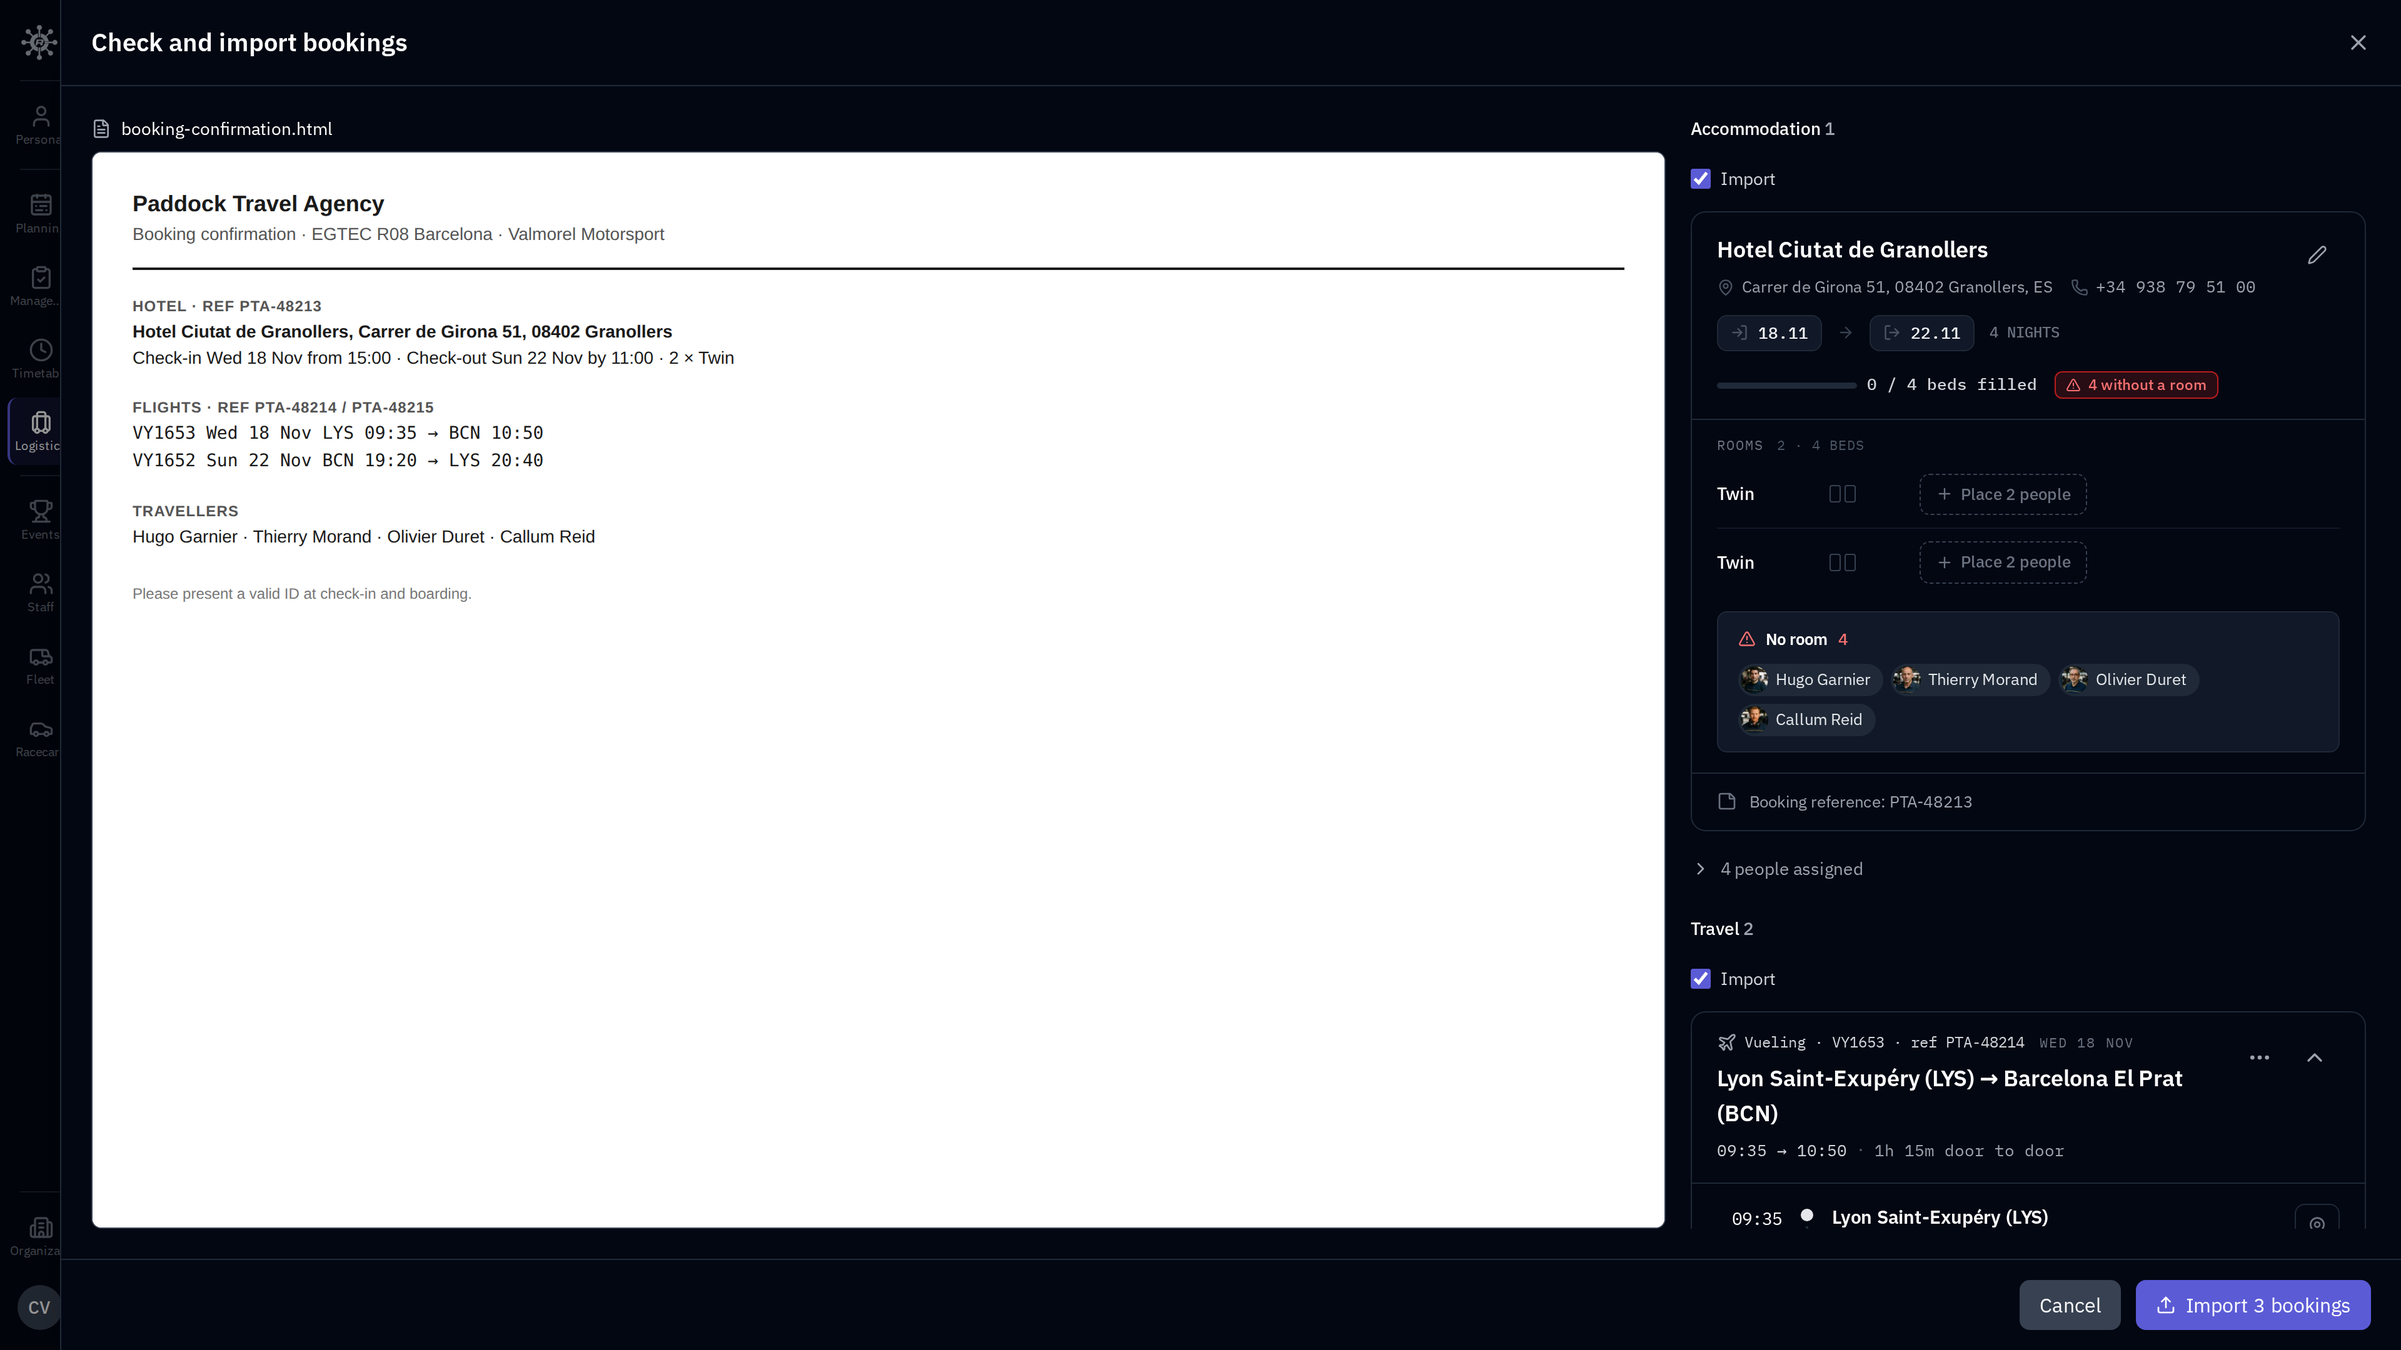
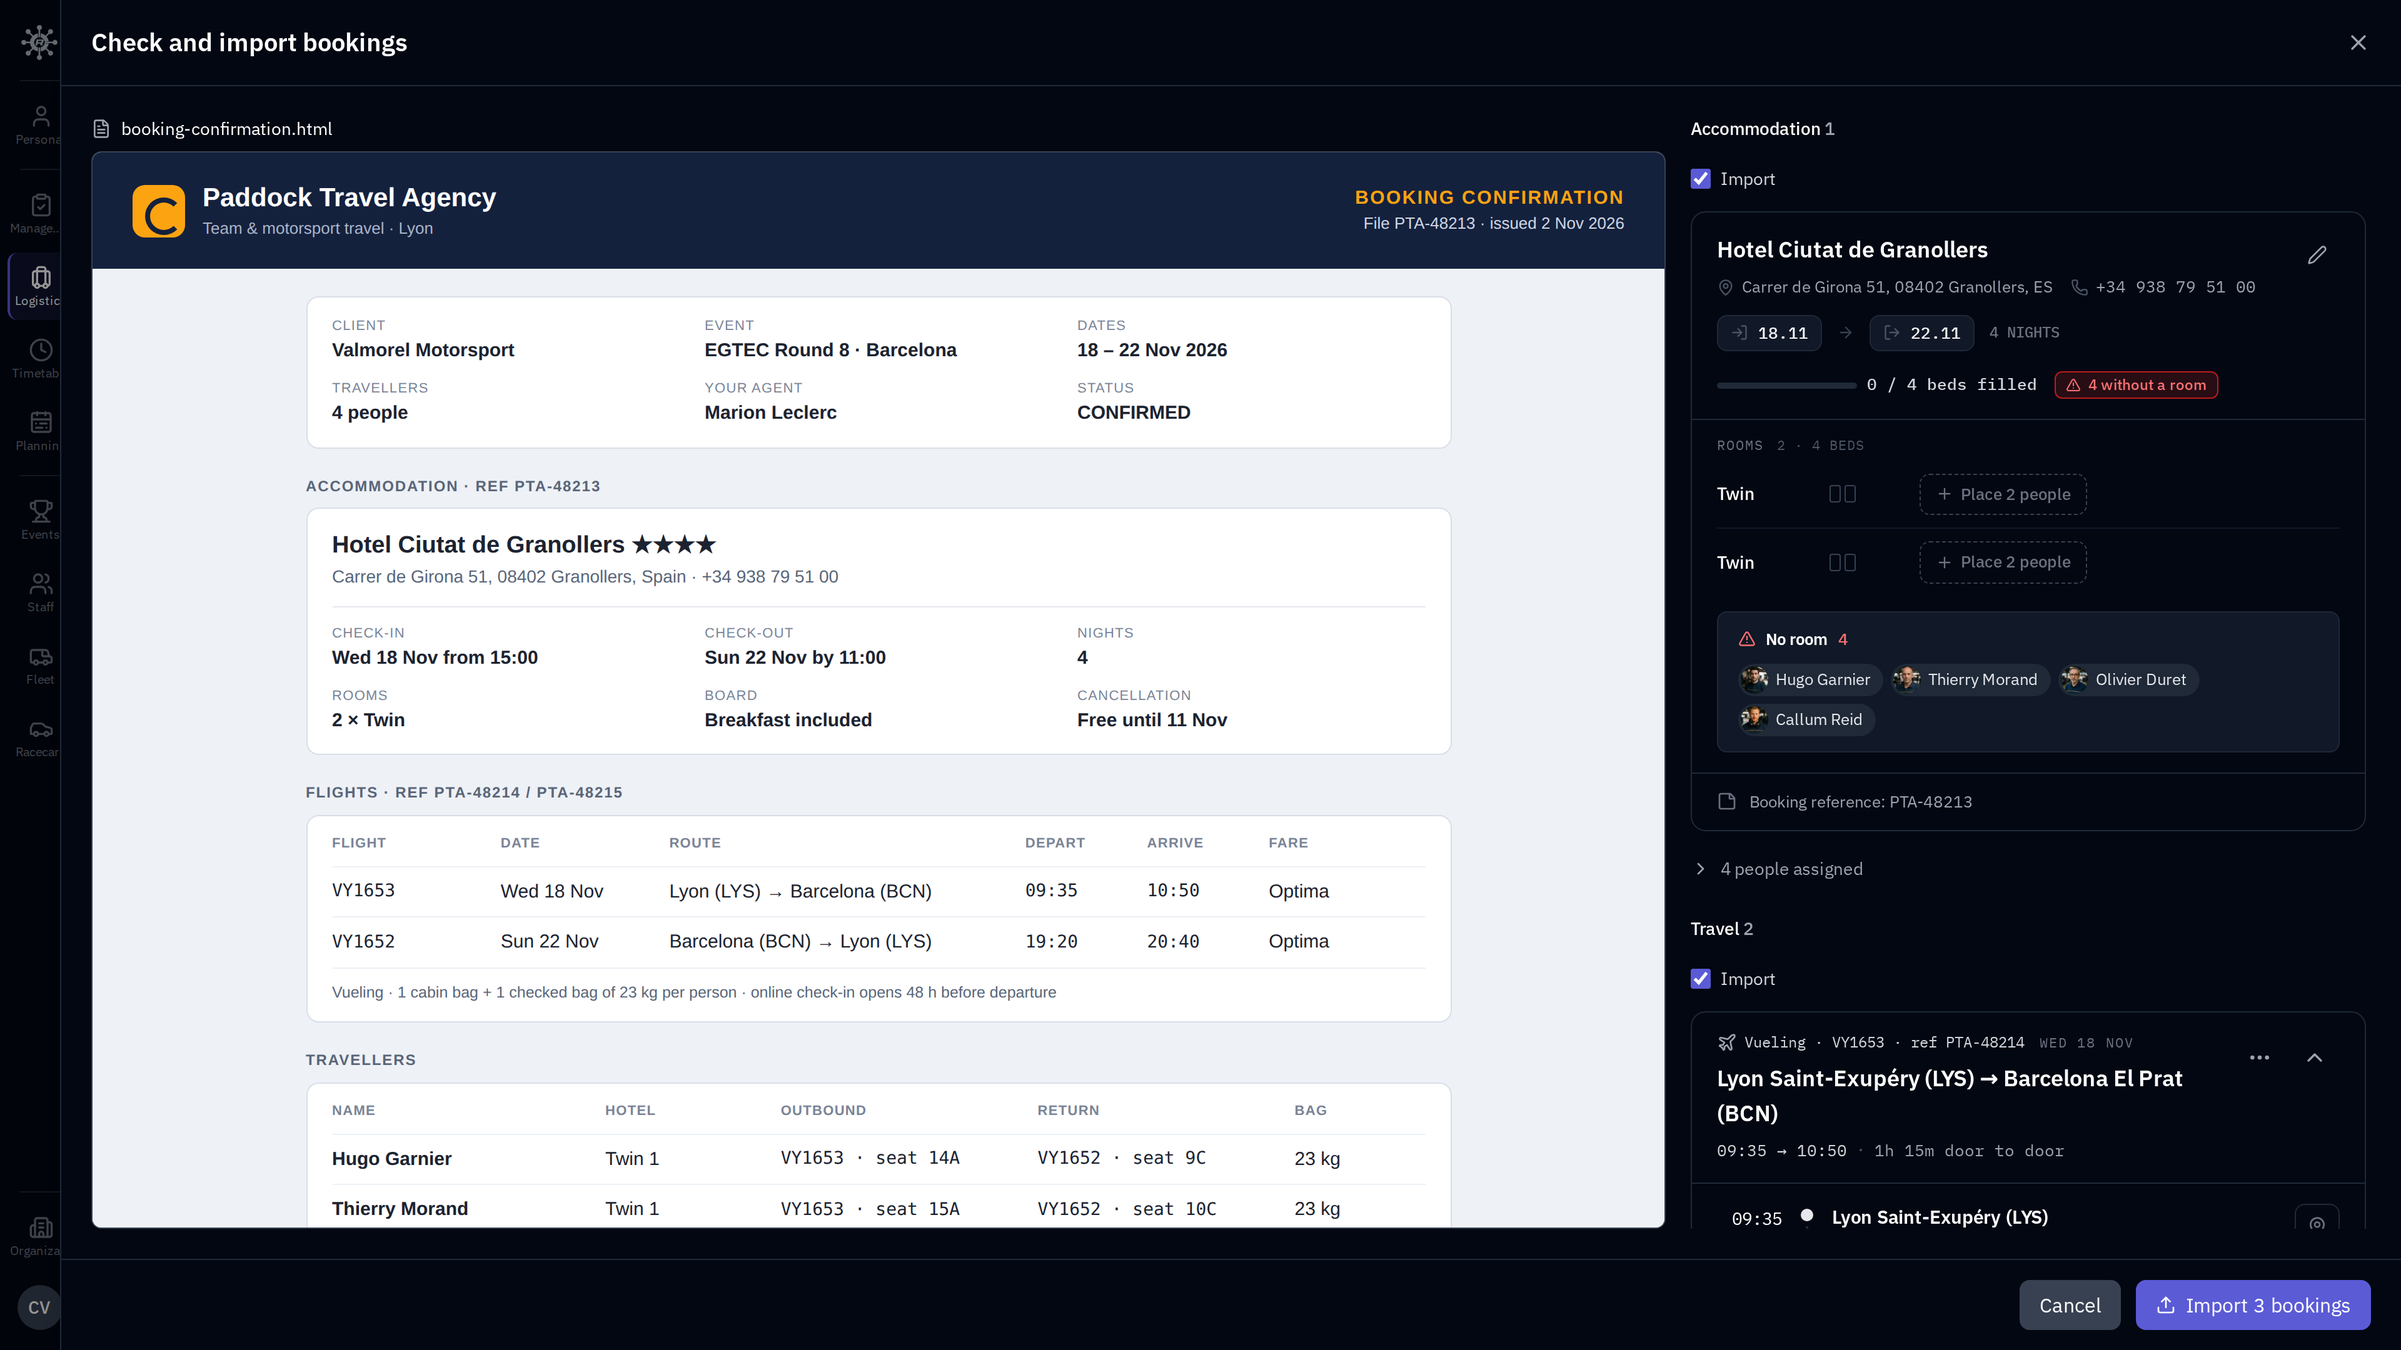
screenshots: credible import documents (travel agency confirmation, official timetable), recaptured

diff --git a/scripts/screenshots/files/booking-confirmation.html b/scripts/screenshots/files/booking-confirmation.html
@@ -3,11 +3,13 @@
   A travel agency's confirmation, made up for the Logistics import screenshot. Like the mails of airlines,
   hotels and booking sites, it carries its bookings as schema.org markup, which RaceNode reads on the device.
   The words a person sees are drawn by CSS on purpose: the document then has no text for the reading
-  service, so the screenshot calls no server (the demo stays untouched). Don't move them into the HTML.
+  service, so the screenshot calls no server (the demo stays untouched). Don't move them into the HTML:
+  every sentence below is a CSS "content" string (xNN::before), the body only holds empty boxes.
 -->
 <html lang="en">
 <head>
 <meta charset="utf-8">
+<meta name="viewport" content="width=device-width, initial-scale=1">
 <script type="application/ld+json">
 [
   {
@@ -74,30 +76,124 @@
 ]
 </script>
 <style>
-  body { margin: 0; padding: 28px 32px; font: 14px/1.5 Helvetica, Arial, sans-serif; color: #1a1a1a; background: #fff; }
-  i { display: block; font-style: normal; }
-  .brand::before { content: "Paddock Travel Agency"; font-weight: 700; font-size: 18px; }
-  .sub::before { content: "Booking confirmation · EGTEC R08 Barcelona · Valmorel Motorsport"; color: #555; }
-  hr { border: 0; border-top: 2px solid #1a1a1a; margin: 16px 0; }
-  .h::before { font-weight: 700; text-transform: uppercase; letter-spacing: .05em; font-size: 12px; color: #555; }
-  .h1::before { content: "Hotel · ref PTA-48213"; }
-  .h2::before { content: "Flights · ref PTA-48214 / PTA-48215"; }
-  .h3::before { content: "Travellers"; }
-  .h { margin-top: 18px; }
-  .a::before { content: "Hotel Ciutat de Granollers, Carrer de Girona 51, 08402 Granollers"; font-weight: 600; }
-  .b::before { content: "Check-in Wed 18 Nov from 15:00 · Check-out Sun 22 Nov by 11:00 · 2 × Twin"; }
-  .c::before { content: "VY1653  Wed 18 Nov  LYS 09:35 → BCN 10:50"; font-family: Menlo, monospace; }
-  .d::before { content: "VY1652  Sun 22 Nov  BCN 19:20 → LYS 20:40"; font-family: Menlo, monospace; }
-  .e::before { content: "Hugo Garnier · Thierry Morand · Olivier Duret · Callum Reid"; }
-  .f::before { content: "Please present a valid ID at check-in and boarding."; color: #777; font-size: 12px; }
-  .f { margin-top: 24px; }
+  *{box-sizing:border-box}
+  body{margin:0;font:15px/1.45 Helvetica,Arial,sans-serif;color:#1c2330;background:#eef1f6}
+  i{display:block;font-style:normal}
+  .top{display:flex;align-items:center;gap:14px;padding:22px 32px;background:#14213d;color:#fff;flex-wrap:wrap}
+  .logo{width:42px;height:42px;border-radius:10px;background:#fca311;position:relative}
+  .logo::after{content:"";position:absolute;left:10px;top:10px;width:22px;height:22px;border:4px solid #14213d;border-radius:50%;border-right-color:transparent}
+  .co{flex:1;min-width:200px}.name{font-weight:700;font-size:21px}.tag{font-size:13px;color:#aab4c8}
+  .doc{text-align:right}.dt{font-weight:700;letter-spacing:.08em;font-size:15px;color:#fca311}.dd{font-size:13px;color:#cfd6e4}
+  .wrap{padding:22px 32px 30px;max-width:980px;margin:0 auto}
+  .card{background:#fff;border:1px solid #d9dee8;border-radius:10px;padding:16px 20px}
+  .sec{margin:22px 0 8px;font-weight:700;font-size:12px;letter-spacing:.08em;text-transform:uppercase;color:#5a6679}
+  .info{display:grid;grid-template-columns:repeat(3,1fr);gap:12px 20px}
+  .grid{display:grid;grid-template-columns:repeat(3,1fr);gap:12px 20px;margin-top:14px;padding-top:14px;border-top:1px solid #e6e9f0}
+  .k{font-size:11px;letter-spacing:.06em;text-transform:uppercase;color:#7a8497}.v{font-weight:600}
+  .hn{font-size:19px;font-weight:700}.ha{color:#5a6679;font-size:14px}
+  .tbl{padding:6px 20px}
+  .r{display:grid;gap:10px;padding:9px 0;border-bottom:1px solid #edf0f5;align-items:center}
+  .f .r{grid-template-columns:1fr 1fr 2.2fr .7fr .7fr 1fr}
+  .p .r{grid-template-columns:1.6fr 1fr 1.5fr 1.5fr .8fr}
+  .th{font-size:11px;letter-spacing:.06em;text-transform:uppercase;color:#7a8497;font-weight:700}
+  .m{font-family:Menlo,Consolas,monospace;font-size:14px}.b{font-weight:600}
+  .p .r:last-child{border-bottom:0}
+  .note{padding:10px 0 8px;font-size:12.5px;color:#5a6679}
+  .pay{display:flex;justify-content:space-between;gap:20px;flex-wrap:wrap}.pay>div>i{padding:2px 0}
+  .tot{text-align:right}.tot .b{font-size:20px;font-weight:700}.s{font-size:12.5px;color:#5a6679}
+  .fine{margin-top:20px;font-size:12px;color:#6b7589}
+  @media (max-width:560px){
+    body{font-size:14px}.top{padding:16px}.wrap{padding:14px 12px 20px}
+    .info,.grid{grid-template-columns:1fr 1fr}.doc{text-align:left}
+    .f .r,.p .r{grid-template-columns:1fr 1fr;gap:2px 10px}.p .r>:first-child,.f .r>:nth-child(3){grid-column:1/-1}.m{font-size:12.5px}.th{display:none}.tot{text-align:left}
+  }
+.x1::before{content:"Paddock Travel Agency"}
+.x2::before{content:"Team & motorsport travel · Lyon"}
+.x3::before{content:"BOOKING CONFIRMATION"}
+.x4::before{content:"File PTA-48213 · issued 2 Nov 2026"}
+.x5::before{content:"Client"}
+.x6::before{content:"Valmorel Motorsport"}
+.x7::before{content:"Event"}
+.x8::before{content:"EGTEC Round 8 · Barcelona"}
+.x9::before{content:"Dates"}
+.x10::before{content:"18 – 22 Nov 2026"}
+.x11::before{content:"Travellers"}
+.x12::before{content:"4 people"}
+.x13::before{content:"Your agent"}
+.x14::before{content:"Marion Leclerc"}
+.x15::before{content:"Status"}
+.x16::before{content:"CONFIRMED"}
+.x17::before{content:"Accommodation · ref PTA-48213"}
+.x18::before{content:"Hotel Ciutat de Granollers ★★★★"}
+.x19::before{content:"Carrer de Girona 51, 08402 Granollers, Spain · +34 938 79 51 00"}
+.x20::before{content:"Check-in"}
+.x21::before{content:"Wed 18 Nov from 15:00"}
+.x22::before{content:"Check-out"}
+.x23::before{content:"Sun 22 Nov by 11:00"}
+.x24::before{content:"Nights"}
+.x25::before{content:"4"}
+.x26::before{content:"Rooms"}
+.x27::before{content:"2 × Twin"}
+.x28::before{content:"Board"}
+.x29::before{content:"Breakfast included"}
+.x30::before{content:"Cancellation"}
+.x31::before{content:"Free until 11 Nov"}
+.x32::before{content:"Flights · ref PTA-48214 / PTA-48215"}
+.x33::before{content:"Flight"}
+.x34::before{content:"Date"}
+.x35::before{content:"Route"}
+.x36::before{content:"Depart"}
+.x37::before{content:"Arrive"}
+.x38::before{content:"Fare"}
+.x39::before{content:"VY1653"}
+.x40::before{content:"Wed 18 Nov"}
+.x41::before{content:"Lyon (LYS) → Barcelona (BCN)"}
+.x42::before{content:"09:35"}
+.x43::before{content:"10:50"}
+.x44::before{content:"Optima"}
+.x45::before{content:"VY1652"}
+.x46::before{content:"Sun 22 Nov"}
+.x47::before{content:"Barcelona (BCN) → Lyon (LYS)"}
+.x48::before{content:"19:20"}
+.x49::before{content:"20:40"}
+.x50::before{content:"Optima"}
+.x51::before{content:"Vueling · 1 cabin bag + 1 checked bag of 23 kg per person · online check-in opens 48 h before departure"}
+.x52::before{content:"Travellers"}
+.x53::before{content:"Name"}
+.x54::before{content:"Hotel"}
+.x55::before{content:"Outbound"}
+.x56::before{content:"Return"}
+.x57::before{content:"Bag"}
+.x58::before{content:"Hugo Garnier"}
+.x59::before{content:"Twin 1"}
+.x60::before{content:"VY1653 · seat 14A"}
+.x61::before{content:"VY1652 · seat 9C"}
+.x62::before{content:"23 kg"}
+.x63::before{content:"Thierry Morand"}
+.x64::before{content:"Twin 1"}
+.x65::before{content:"VY1653 · seat 15A"}
+.x66::before{content:"VY1652 · seat 10C"}
+.x67::before{content:"23 kg"}
+.x68::before{content:"Olivier Duret"}
+.x69::before{content:"Twin 2"}
+.x70::before{content:"VY1653 · seat 16A"}
+.x71::before{content:"VY1652 · seat 11C"}
+.x72::before{content:"23 kg"}
+.x73::before{content:"Callum Reid"}
+.x74::before{content:"Twin 2"}
+.x75::before{content:"VY1653 · seat 17A"}
+.x76::before{content:"VY1652 · seat 12C"}
+.x77::before{content:"23 kg"}
+.x78::before{content:"Payment"}
+.x79::before{content:"Hotel · 2 rooms × 4 nights — €1,184.00"}
+.x80::before{content:"Flights · 4 travellers × 2 sectors — €1,560.00"}
+.x81::before{content:"Booking fee — €112.00"}
+.x82::before{content:"Total paid €2,856.00"}
+.x83::before{content:"Invoice PTA-48213-F · paid by transfer on 2 Nov 2026"}
+.x84::before{content:"Please present a valid ID at check-in and boarding. Changes and cancellations: contact your agent at least 72 h before departure. Fares and room rates are non-transferable. Paddock Travel Agency · registered travel agency · 24/7 helpline +33 4 00 00 00 00."}
 </style>
 </head>
 <body>
-<i class="brand"></i><i class="sub"></i><hr>
-<i class="h h1"></i><i class="a"></i><i class="b"></i>
-<i class="h h2"></i><i class="c"></i><i class="d"></i>
-<i class="h h3"></i><i class="e"></i>
-<i class="f"></i>
+<div class="top"><div class="logo"></div><div class="co"><i class="name x1"></i><i class="tag x2"></i></div><div class="doc"><i class="dt x3"></i><i class="dd x4"></i></div></div><div class="wrap"><div class="card info"><div class="kv"><i class="k x5"></i><i class="v x6"></i></div><div class="kv"><i class="k x7"></i><i class="v x8"></i></div><div class="kv"><i class="k x9"></i><i class="v x10"></i></div><div class="kv"><i class="k x11"></i><i class="v x12"></i></div><div class="kv"><i class="k x13"></i><i class="v x14"></i></div><div class="kv"><i class="k x15"></i><i class="v x16"></i></div></div><div class="sec"><i class=" x17"></i></div><div class="card"><i class="hn x18"></i><i class="ha x19"></i><div class="grid"><div class="kv"><i class="k x20"></i><i class="v x21"></i></div><div class="kv"><i class="k x22"></i><i class="v x23"></i></div><div class="kv"><i class="k x24"></i><i class="v x25"></i></div><div class="kv"><i class="k x26"></i><i class="v x27"></i></div><div class="kv"><i class="k x28"></i><i class="v x29"></i></div><div class="kv"><i class="k x30"></i><i class="v x31"></i></div></div></div><div class="sec"><i class=" x32"></i></div><div class="card tbl f"><div class="r th"><i class=" x33"></i><i class=" x34"></i><i class=" x35"></i><i class=" x36"></i><i class=" x37"></i><i class=" x38"></i></div><div class="r"><i class="m x39"></i><i class=" x40"></i><i class=" x41"></i><i class="m x42"></i><i class="m x43"></i><i class=" x44"></i></div><div class="r"><i class="m x45"></i><i class=" x46"></i><i class=" x47"></i><i class="m x48"></i><i class="m x49"></i><i class=" x50"></i></div><div class="note"><i class=" x51"></i></div></div><div class="sec"><i class=" x52"></i></div><div class="card tbl p"><div class="r th"><i class=" x53"></i><i class=" x54"></i><i class=" x55"></i><i class=" x56"></i><i class=" x57"></i></div><div class="r"><i class="b x58"></i><i class=" x59"></i><i class="m x60"></i><i class="m x61"></i><i class=" x62"></i></div><div class="r"><i class="b x63"></i><i class=" x64"></i><i class="m x65"></i><i class="m x66"></i><i class=" x67"></i></div><div class="r"><i class="b x68"></i><i class=" x69"></i><i class="m x70"></i><i class="m x71"></i><i class=" x72"></i></div><div class="r"><i class="b x73"></i><i class=" x74"></i><i class="m x75"></i><i class="m x76"></i><i class=" x77"></i></div></div><div class="sec"><i class=" x78"></i></div><div class="card pay"><div><i class=" x79"></i><i class=" x80"></i><i class=" x81"></i></div><div class="tot"><i class="b x82"></i><i class="s x83"></i></div></div><div class="fine"><i class=" x84"></i></div></div>
 </body>
 </html>

diff --git a/scripts/screenshots/files/official-timetable.html b/scripts/screenshots/files/official-timetable.html
@@ -5,21 +5,39 @@
 <meta charset="utf-8">
 <title>EGTEC Round 8 - Barcelona - Official Timetable</title>
 <style>
-  @page { size: A4; margin: 16mm 14mm; }
-  body { font: 10.5pt/1.35 Helvetica, Arial, sans-serif; color: #111; }
-  header { display: flex; justify-content: space-between; align-items: flex-end; border-bottom: 2.5pt solid #111; padding-bottom: 6pt; }
-  h1 { font-size: 16pt; margin: 0; }
-  .meta { text-align: right; font-size: 9pt; color: #444; }
-  table { width: 100%; border-collapse: collapse; margin-top: 12pt; }
-  th { text-align: left; font-size: 8.5pt; text-transform: uppercase; letter-spacing: .04em; border-bottom: 1pt solid #111; padding: 4pt 6pt; }
-  td { padding: 3.5pt 6pt; border-bottom: .5pt solid #ccc; }
+  @page { size: A4; margin: 0; }
+  * { box-sizing: border-box; }
+  body { margin: 0; font: 10.5pt/1.35 Helvetica, Arial, sans-serif; color: #111; }
+  .band { background: #1b1f2a; color: #fff; padding: 14mm 14mm 9mm; }
+  .mark { display: inline-block; width: 11mm; height: 11mm; background: #e63946; border-radius: 2mm; margin-bottom: 4mm; position: relative; }
+  .mark::after { content: ""; position: absolute; left: 2.6mm; top: 2.6mm; width: 5.8mm; height: 5.8mm; border: 1.1mm solid #1b1f2a; border-radius: 50%; border-right-color: transparent; }
+  .series { font-size: 9pt; letter-spacing: .12em; text-transform: uppercase; color: #e63946; font-weight: 700; }
+  h1 { font-size: 24pt; line-height: 1.1; margin: 1mm 0 0; }
+  .sub { font-size: 10.5pt; color: #c3c8d4; margin-top: 2mm; }
+  .meta { font-size: 9pt; color: #c3c8d4; margin-top: 3mm; }
+  .body { padding: 8mm 14mm 10mm; }
+  table { width: 100%; border-collapse: collapse; }
+  th { text-align: left; font-size: 8.5pt; text-transform: uppercase; letter-spacing: .05em; background: #eceef3; border-bottom: 1.2pt solid #111; padding: 5pt 7pt; }
+  td { padding: 5.5pt 7pt; border-bottom: .5pt solid #d3d6de; }
   td.t { font-variant-numeric: tabular-nums; white-space: nowrap; }
-  tr.track td { font-weight: 600; }
-  footer { margin-top: 14pt; font-size: 8pt; color: #555; }
+  tr.track td { font-weight: 700; background: #fdf0f1; }
+  tr.track td:first-child { border-left: 3pt solid #e63946; }
+  .notes { margin-top: 8mm; font-size: 8.5pt; color: #333; border-top: 1.2pt solid #111; padding-top: 3pt; }
+  .notes h2 { font-size: 8.5pt; text-transform: uppercase; letter-spacing: .05em; margin: 0 0 2pt; }
+  footer { margin-top: 4mm; font-size: 8pt; color: #555; }
 </style>
 </head>
 <body>
-
+<div class="band">
+  <div>
+    <span class="mark"></span>
+    <div class="series">EGTEC Championship · Round 8</div>
+    <h1>Barcelona Official Timetable</h1>
+    <div class="sub">Circuit de Barcelona-Catalunya · 18 – 21 November 2026</div>
+  </div>
+  <div class="meta">Version v1 · issued 2 Nov 2026 · all times local (CET)</div>
+</div>
+<div class="body">
 <table>
   <thead><tr><th>Date</th><th>Start</th><th>End</th><th>Session</th><th>Location</th></tr></thead>
   <tbody>
@@ -38,6 +56,8 @@
     <tr><td>21/11/2026</td><td class="t">17:15</td><td class="t">17:45</td><td>Podium &amp; press conference</td><td>Podium</td></tr>
   </tbody>
 </table>
+<div class="notes">Highlighted rows run on track. The organizer may amend this timetable; any update is published as a new version.</div>
 <footer>EGTEC Round 8 Barcelona · Official Timetable v1 · local time</footer>
+</div>
 </body>
 </html>
